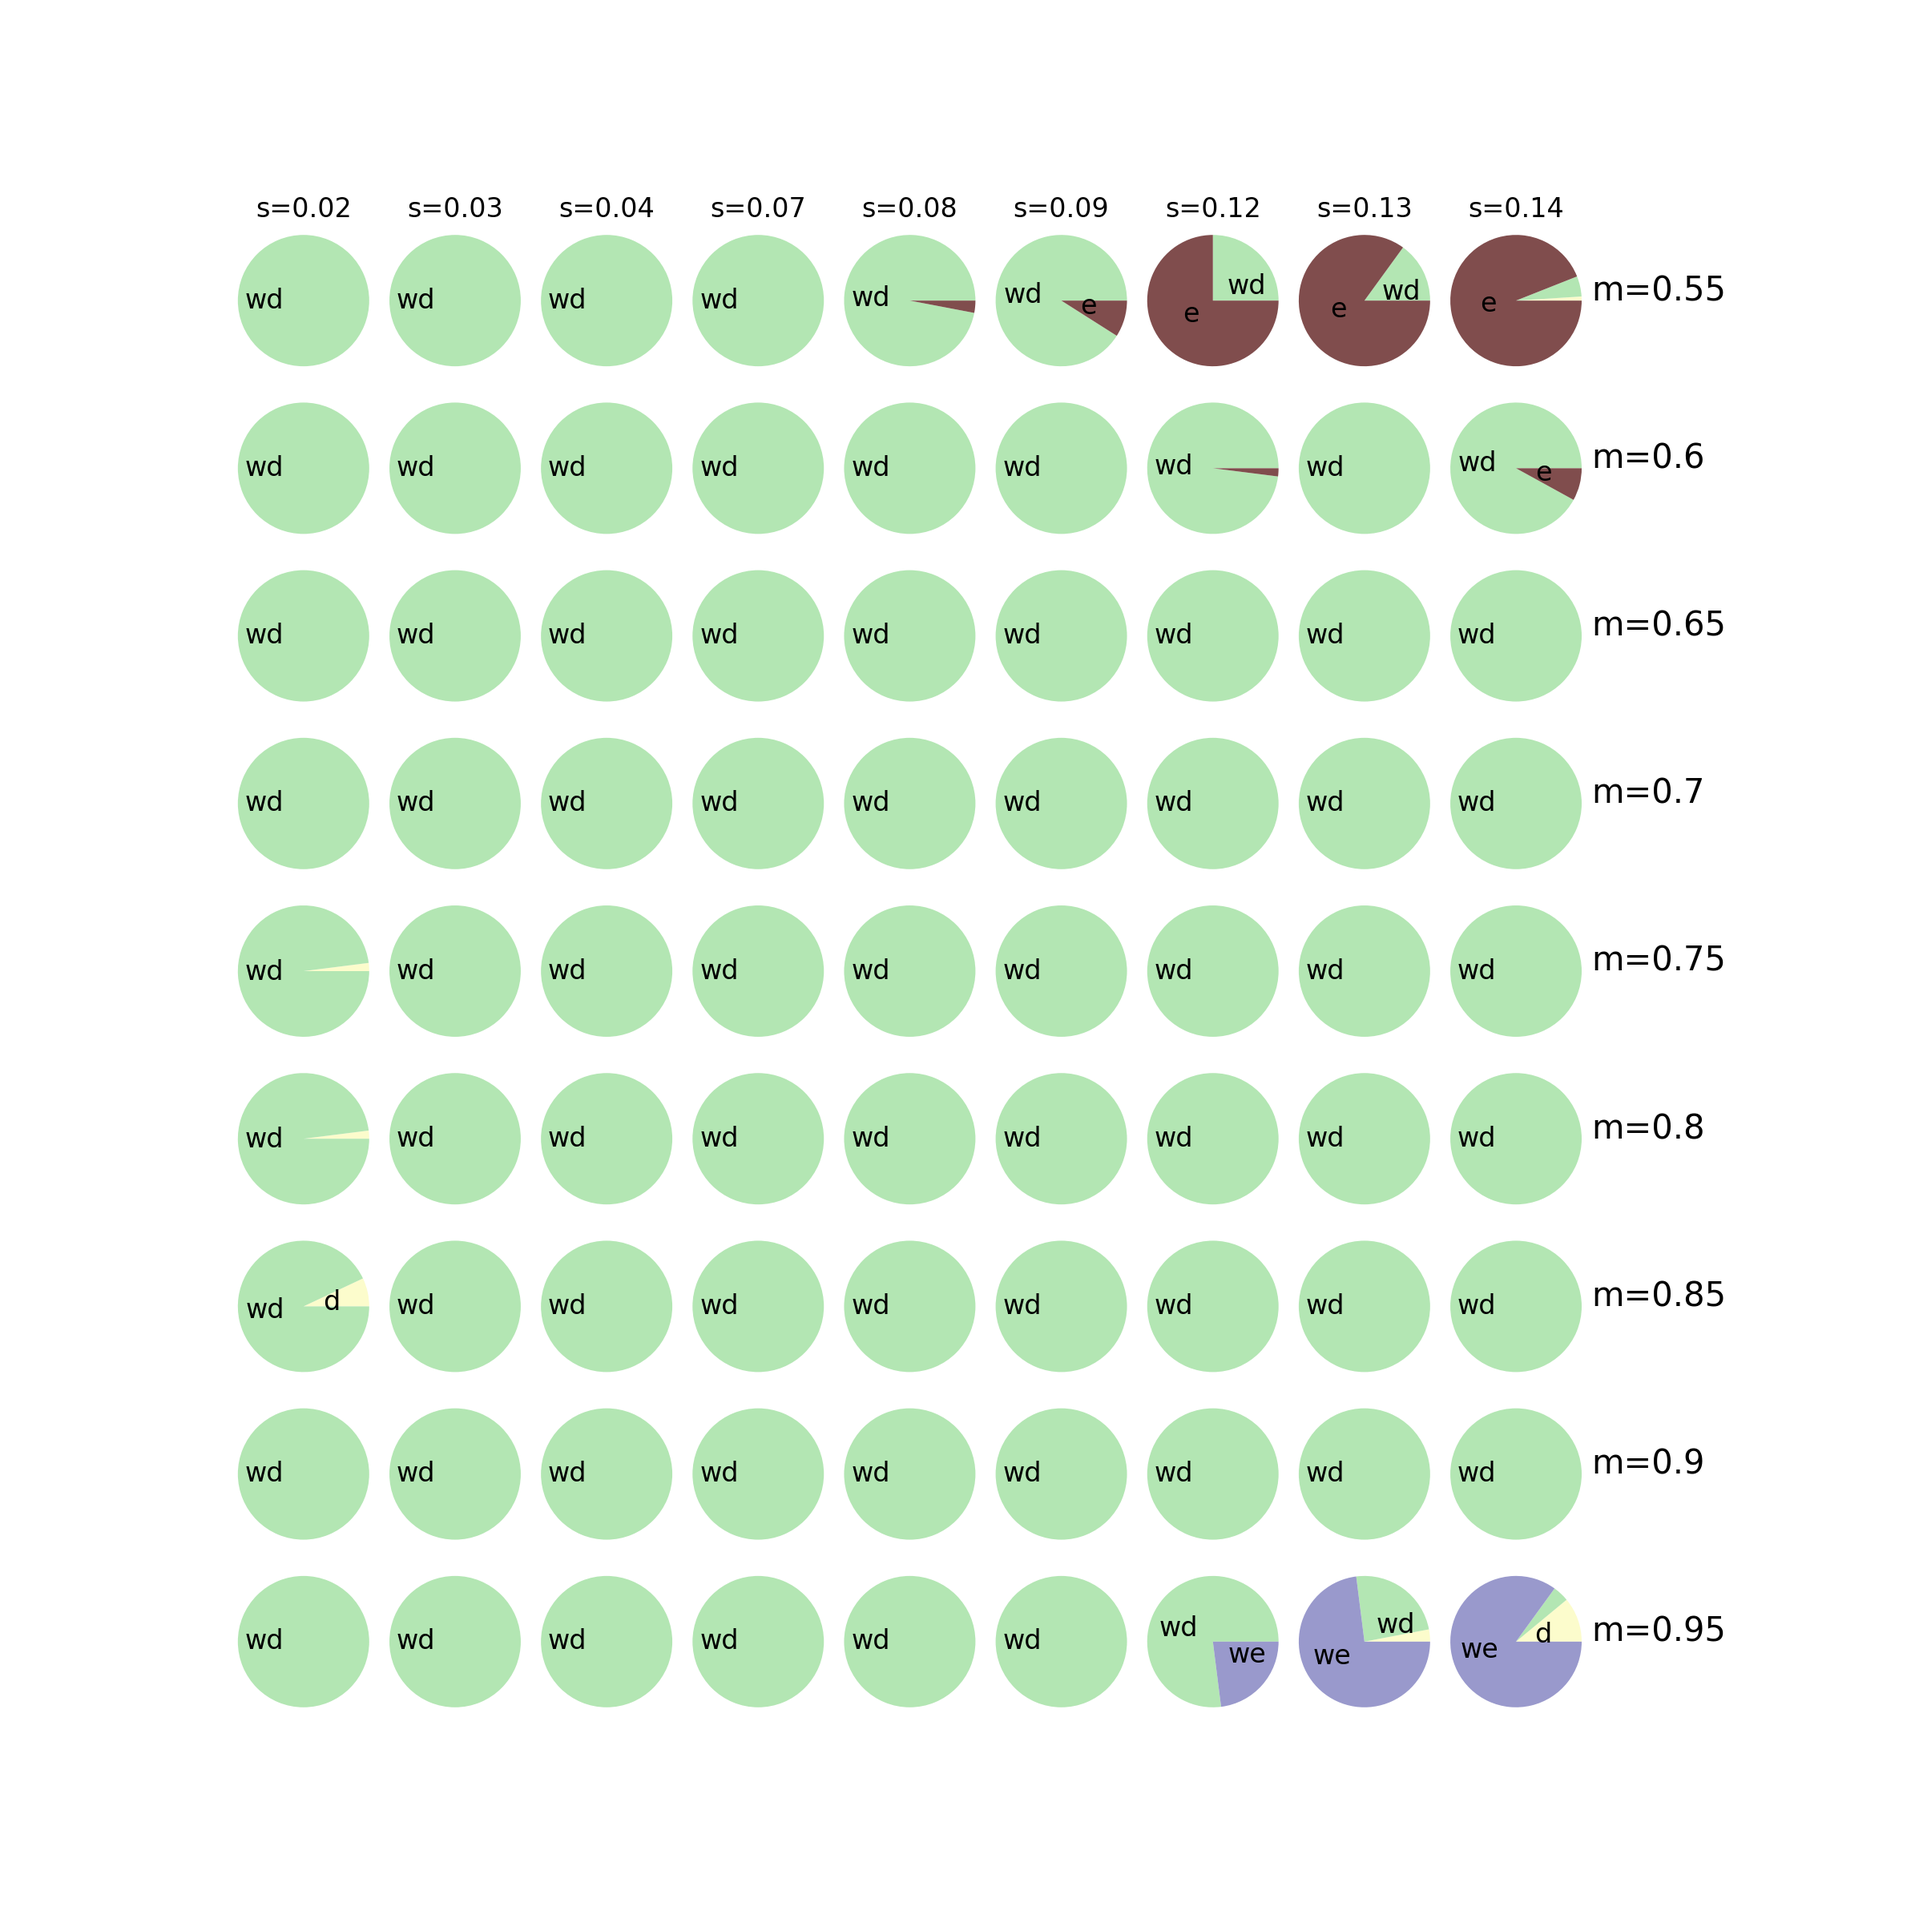
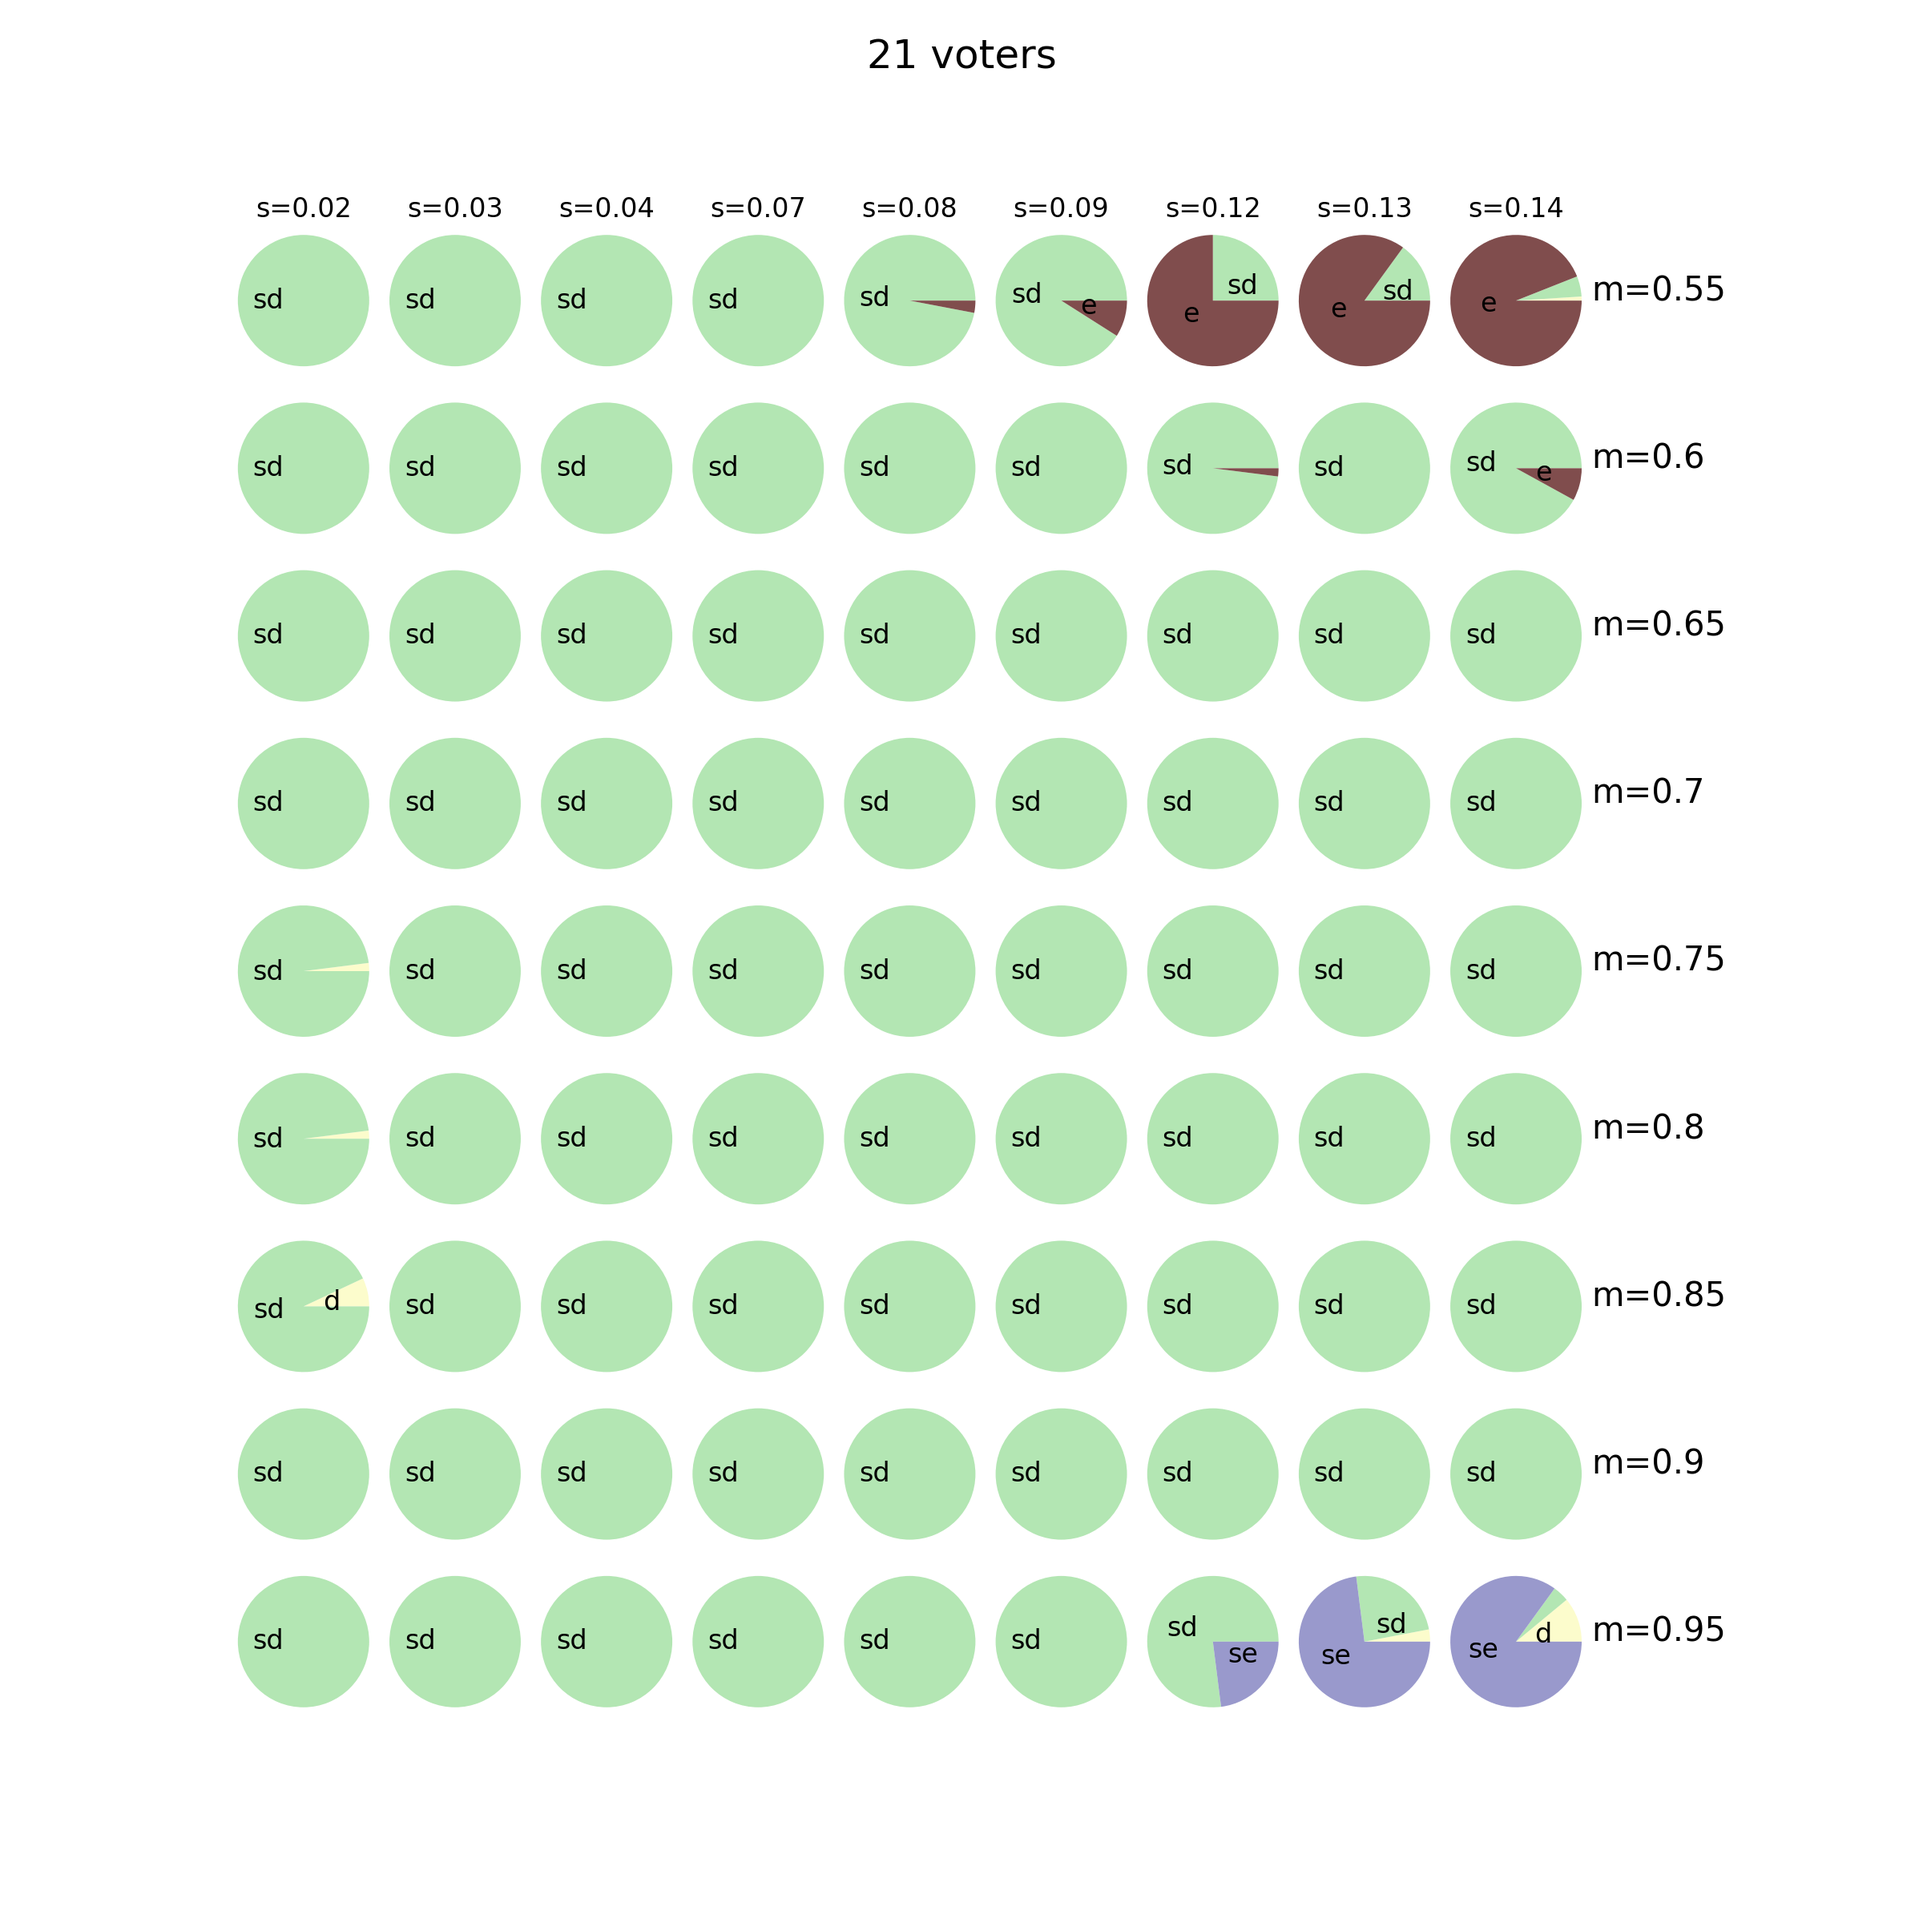
fix figures

Changed region(s): [[0.7188, 0.125, 0.75, 0.1562], [0.5, 0.0, 0.5312, 0.0312]]

diff --git a/one_person_one_weight_analyze.py b/one_person_one_weight_analyze.py
@@ -66,8 +66,8 @@ map_column_codes_to_column_names = {
 
 map_column_codes_to_short_names = {
         "optimal_is_strong_democracy": "d",
-        "optimal_is_weak_democracy": "wd",
-        "optimal_is_weak_epistocracy": "we",
+        "optimal_is_weak_democracy": "sd",
+        "optimal_is_weak_epistocracy": "se",
         "optimal_is_strong_epistocracy": "e",
     }
 
@@ -227,6 +227,7 @@ def pie_by_means_and_stds(results_csv_file:str, figure_file:str,
     rows = len(expertise_means)
     cols = len(expertise_stds)+1
     # plt.suptitle(f"Rules by expertise mean (m) and standard deviation (s), n={num_of_voterss}")
+    plt.suptitle(f"{num_of_voterss[0]} voters")
     for row_index, expertise_mean in enumerate(expertise_means):
         results_for_mean = results_for_voters.loc[results_for_voters['mean']==expertise_mean]
         for col_index, expertise_std in enumerate(expertise_stds):
@@ -282,37 +283,9 @@ distribution="beta"
 results_file = f"results/1000iters-{distribution}.csv"
 
 for num_of_voters in num_of_voterss:
+    print(f"{num_of_voters} voters", flush=True)
     pie_by_means_and_stds(results_file, f"results/optimality_by_means_and_stds_{num_of_voters}-{distribution}.png",
         num_of_voterss=[num_of_voters], 
         expertise_means=expertise_means,#[.55,.65,.75,.85,.95],
         expertise_stds=expertise_stds,#[0.02, 0.04, 0.08, 0.14]
         )
-
-# plot_vs_mean_on_one_page(results_file, f"results/optimality_vs_mean-{distribution}.png",
-#     map_column_codes_to_column_names,  num_of_voterss, expertise_means, expertise_stds, line_at_half=False)
-
-# plot_vs_voters_on_one_page(results_file, f"results/optimality_vs_voters-{distribution}.png",
-#     map_column_codes_to_column_names,  num_of_voterss, expertise_means, expertise_stds, line_at_half=True)
-
-# plot_vs_voters(results_file, "optimal_agrees_majority", [3, 5, 7, 9, 11, 21, 31, 41, 51], expertise_means, expertise_stds, line_at_half=False)
-
-
-exit(0)
-
-
-plot_vs_mean_on_one_page(results_file, "results/correctness_vs_mean_1.png",
-     ["optimal_correct_minus_majority_correct"],
-     ["Optimal minus SMR"],
-     [3,5,7,9,11,21], expertise_means, expertise_stds, line_at_half=False)
-
-plot_vs_voters_on_one_page(results_file, "results/correctness_vs_voters.png",
-     ["majority_correct", "optimal_correct"],
-     ["SMR correct", "Optimal correct"],
-     num_of_voterss, [0.5, 0.6, 0.7, 0.8, 0.9, 0.95], expertise_stds, line_at_half=True)
-
-plot_vs_voters_on_one_page(results_file, "results/correctness_vs_voters_1.png",
-     ["optimal_correct_minus_majority_correct", "d_majority_correct_d_voters"],
-     ["Optimal minus SMR", "SMR derivative"],
-     num_of_voterss, [0.5, 0.6, 0.7, 0.8, 0.9, 0.95], expertise_stds, line_at_half=False)
-
-plt.close()
